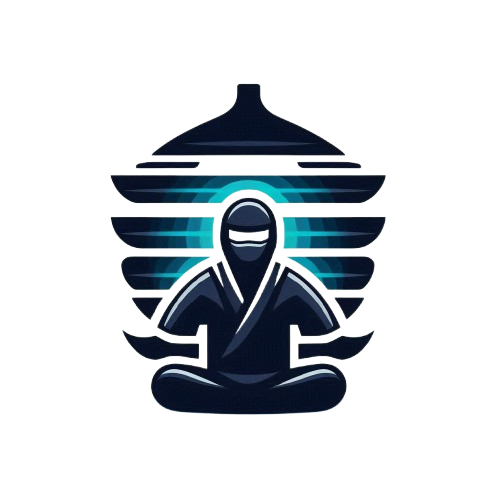
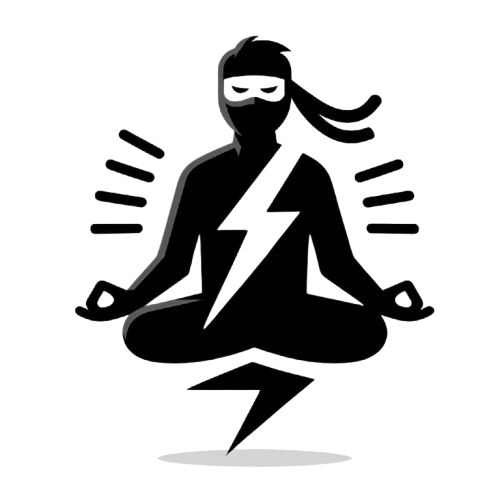
bottom_screen

diff --git a/lib/main.dart b/lib/main.dart
@@ -1,5 +1,6 @@
 import 'package:firebase_core/firebase_core.dart';
 import 'package:flutter/material.dart';
+import 'package:ourtelegrambot/const/colors.dart';
 import 'package:ourtelegrambot/const/images_path.dart';
 import 'package:ourtelegrambot/controller/coin_controller.dart';
 import 'package:ourtelegrambot/controller/telegram_controller.dart';
@@ -79,50 +80,55 @@ class HomeScreenState extends State<HomeScreen> {
         toolbarHeight: 20,
       ),
       body: _widgetOptions.elementAt(_selectedIndex),
-      bottomNavigationBar: Container(
-        padding: EdgeInsets.symmetric(horizontal: 12, vertical: 4),
+      bottomNavigationBar: Card(
+        elevation: 10,
+        color: primaryTextColor.withOpacity(0.5),
         margin: EdgeInsets.only(left: 15, right: 15, bottom: 20),
-        decoration: BoxDecoration(
-            color: Colors.white.withOpacity(0.16),
-            borderRadius: BorderRadius.circular(18)),
-        height: MediaQuery.sizeOf(context).height * 0.07,
-        // width: MediaQuery.sizeOf(context).width * 0.95,
-        child: Row(
-          mainAxisAlignment: MainAxisAlignment.spaceBetween,
-          children: List.generate(fillIcons.length, (index) {
-            return GestureDetector(
-              onTap: () {
-                _selectedIndex = index;
-                setState(() {});
-              },
-              child: Column(
-                children: [
-                  CustomSized(
-                    height: 0.0102,
-                  ),
-                  Image.asset(
-                    index == _selectedIndex
-                        ? fillIcons[index]
-                        : outlineIcons[index],
-                    color: index == _selectedIndex
-                        ? Colors.amberAccent
-                        : Colors.white,
-                    height: index == _selectedIndex ? 22 : 18,
-                    width: index == _selectedIndex ? 22 : 22,
-                  ),
-                  CustomSized(
-                    height: 0.001,
-                  ),
-                  Text(title[index],
-                      style: TextStyle(
-                          fontSize: index == _selectedIndex ? 12 : 10,
-                          color: index == _selectedIndex
-                              ? Colors.white
-                              : Colors.white38))
-                ],
-              ),
-            );
-          }),
+        shape: RoundedRectangleBorder(
+            borderRadius: BorderRadius.circular(20),
+        ),
+        child: Container(
+          padding: EdgeInsets.symmetric(horizontal: 12, vertical: 4),
+          decoration: BoxDecoration(
+              color: primaryTextColor.withOpacity(0.5),
+              borderRadius: BorderRadius.circular(18)),
+          height: MediaQuery.sizeOf(context).height * 0.07,
+          // width: MediaQuery.sizeOf(context).width * 0.95,
+          child: Row(
+            mainAxisAlignment: MainAxisAlignment.spaceBetween,
+            children: List.generate(fillIcons.length, (index) {
+              return GestureDetector(
+                onTap: () {
+                  _selectedIndex = index;
+                  setState(() {});
+                },
+                child: Column(
+                  children: [
+                    const CustomSized(
+                      height: 0.0102,
+                    ),
+                    Image.asset(
+                      fillIcons[index],
+                      color: index == _selectedIndex
+                          ? blueColor
+                          : greyColor,
+                      height: index == _selectedIndex ? 22 : 18,
+                      width: index == _selectedIndex ? 22 : 22,
+                    ),
+                   const  CustomSized(
+                      height: 0.001,
+                    ),
+                    Text(title[index],
+                        style: TextStyle(
+                            fontSize: index == _selectedIndex ? 11 : 10,
+                            color: index == _selectedIndex
+                                ? blueColor
+                                : greyColor,))
+                  ],
+                ),
+              );
+            }),
+          ),
         ),
       ),
     );

diff --git a/lib/views/home_tab.dart b/lib/views/home_tab.dart
@@ -1,5 +1,6 @@
 import 'package:cloud_firestore/cloud_firestore.dart';
 import 'package:flutter/material.dart';
+import 'package:ourtelegrambot/const/colors.dart';
 import 'package:ourtelegrambot/const/images_path.dart';
 import 'package:ourtelegrambot/controller/coin_controller.dart';
 import 'package:ourtelegrambot/controller/telegram_controller.dart';
@@ -43,7 +44,7 @@ class HomeTab extends GetView<CoinController> {
                 child: Column(
                   children: <Widget>[
                     Padding(
-                      padding: const EdgeInsets.all(8.0),
+                      padding: const EdgeInsets.symmetric(horizontal: 8.0),
                       child: Column(
                         children: [
                           Row(
@@ -67,7 +68,7 @@ class HomeTab extends GetView<CoinController> {
                         ],
                       ),
                     ),
-                    CustomSized(height: 0.1,),
+                    CustomSized(height: 0.05,),
                     GestureDetector(
                       onTap: () {
                         coinController.increaseCoins(userId: userTelegramId.toString(), context: context);
@@ -83,7 +84,7 @@ class HomeTab extends GetView<CoinController> {
                         ),
                       ),
                     ),
-                    CustomSized(height: 0.05,),
+                    CustomSized(height: 0.03,),
                     Padding(
                       padding: const EdgeInsets.all(8.0),
                       child: Column(
@@ -100,14 +101,16 @@ class HomeTab extends GetView<CoinController> {
                               ),
                             ],
                           ),
-                          CustomSized(height: 0.05,),
+                          CustomSized(height: 0.03,),
                           Row(
                             mainAxisAlignment: MainAxisAlignment.start,
+                            crossAxisAlignment: CrossAxisAlignment.end,
                             children: [
                               Column(
                                 mainAxisSize: MainAxisSize.min,
                                 children: [
-                                    Image.network(energy,height: 40,width: 40),
+                                    Image.network(energy,height: 40,width: 40,color: whiteColor,),
+                                    CustomSized(height: 0.01,),
                                     Text('${userData['energies']['value']}',style: TextStyle(color: Colors.white),),
                                 ],
                               ),

diff --git a/lib/const/images_path.dart b/lib/const/images_path.dart
@@ -10,18 +10,11 @@ const String airPlane = 'assets/air_plane.png';
 const String slotMachine = 'assets/slot_machine.png';
 
 // fill icons
-const String homeFill = 'assets/home_fill.png';
-const String gameControllerFill = 'assets/game_controller_fill.png';
-const String upgradeFill = 'assets/buff_fill.png';
-const String earnFill = 'assets/money_bag_fill.png';
-const String friendsFill = 'assets/friends_fill.png';
-
-// outline
-const String home = 'assets/home.png';
-const String gameController = 'assets/game_controller.png';
-const String upgrade = 'assets/buff.png';
-const String earn = 'assets/money-bag.png';
-const String friends = 'assets/friends.png';
+const String ninjaHome = 'assets/ninja.png';
+const String ninjaAvatar = 'assets/judo.png';
+const String ninjaUpgrades = 'assets/blades.png';
+const String ninjaFiends = 'assets/katana.png';
+const String ninjaGames = 'assets/earn.png';
 
 // avatar
 const String oneAvatar = 'assets/1.png';
@@ -43,33 +36,34 @@ const String sixteenAvatar = 'assets/16.png';
 const String seventeenAvatar = 'assets/17.png';
 const String eighteenAvatar = 'assets/18.png';
 const String nineteenAvatar = 'assets/19.png';
+const String twenty = 'assets/tweenty.png';
+const String twentyOne = 'assets/tweentyOne.png';
+const String twentyTwo = 'assets/tweentyTwo.png';
+const String twentyThree = 'assets/tweentThree.png';
+const String twentyFour = 'assets/tweentFour.png';
+const String twentyFive = 'assets/tweentFive.png';
+const String twentySix = 'assets/tweentySix.png';
+const String twentySeven = 'assets/tweentySeven.png';
 
 // coin
 const String coin = 'assets/coin.png';
 const String health = 'assets/heart.png';
 
 var fillIcons = [
-  homeFill,
-  gameControllerFill,
-  upgradeFill,
-  earnFill,
-  friendsFill,
+  ninjaHome,
+  ninjaGames,
+  ninjaUpgrades,
+  ninjaFiends,
+  ninjaAvatar,
 ];
 
-var outlineIcons = [
-  home,
-  gameController,
-  upgrade,
-  earn,
-  friends,
-];
 
 var title =[
   'Home',
-  'Games',
+  'Earn',
   'Upgrades',
   'Tasks',
-  'Friends',
+  'Avatar',
 ];
 
 var avatar = [
@@ -92,6 +86,14 @@ var avatar = [
   seventeenAvatar,
   eighteenAvatar,
   nineteenAvatar,
+  twenty,
+  twentyOne,
+  twentyTwo,
+  twentyThree,
+  twentyFour,
+  twentyFive,
+  twentySix,
+  twentySeven,
 ];
 
 var avatarPrice = [
@@ -114,4 +116,12 @@ var avatarPrice = [
   17000,
   18000,
   19000,
+  20000,
+  21000,
+  22000,
+  23000,
+  24000,
+  25000,
+  26000,
+  27000,
 ];
